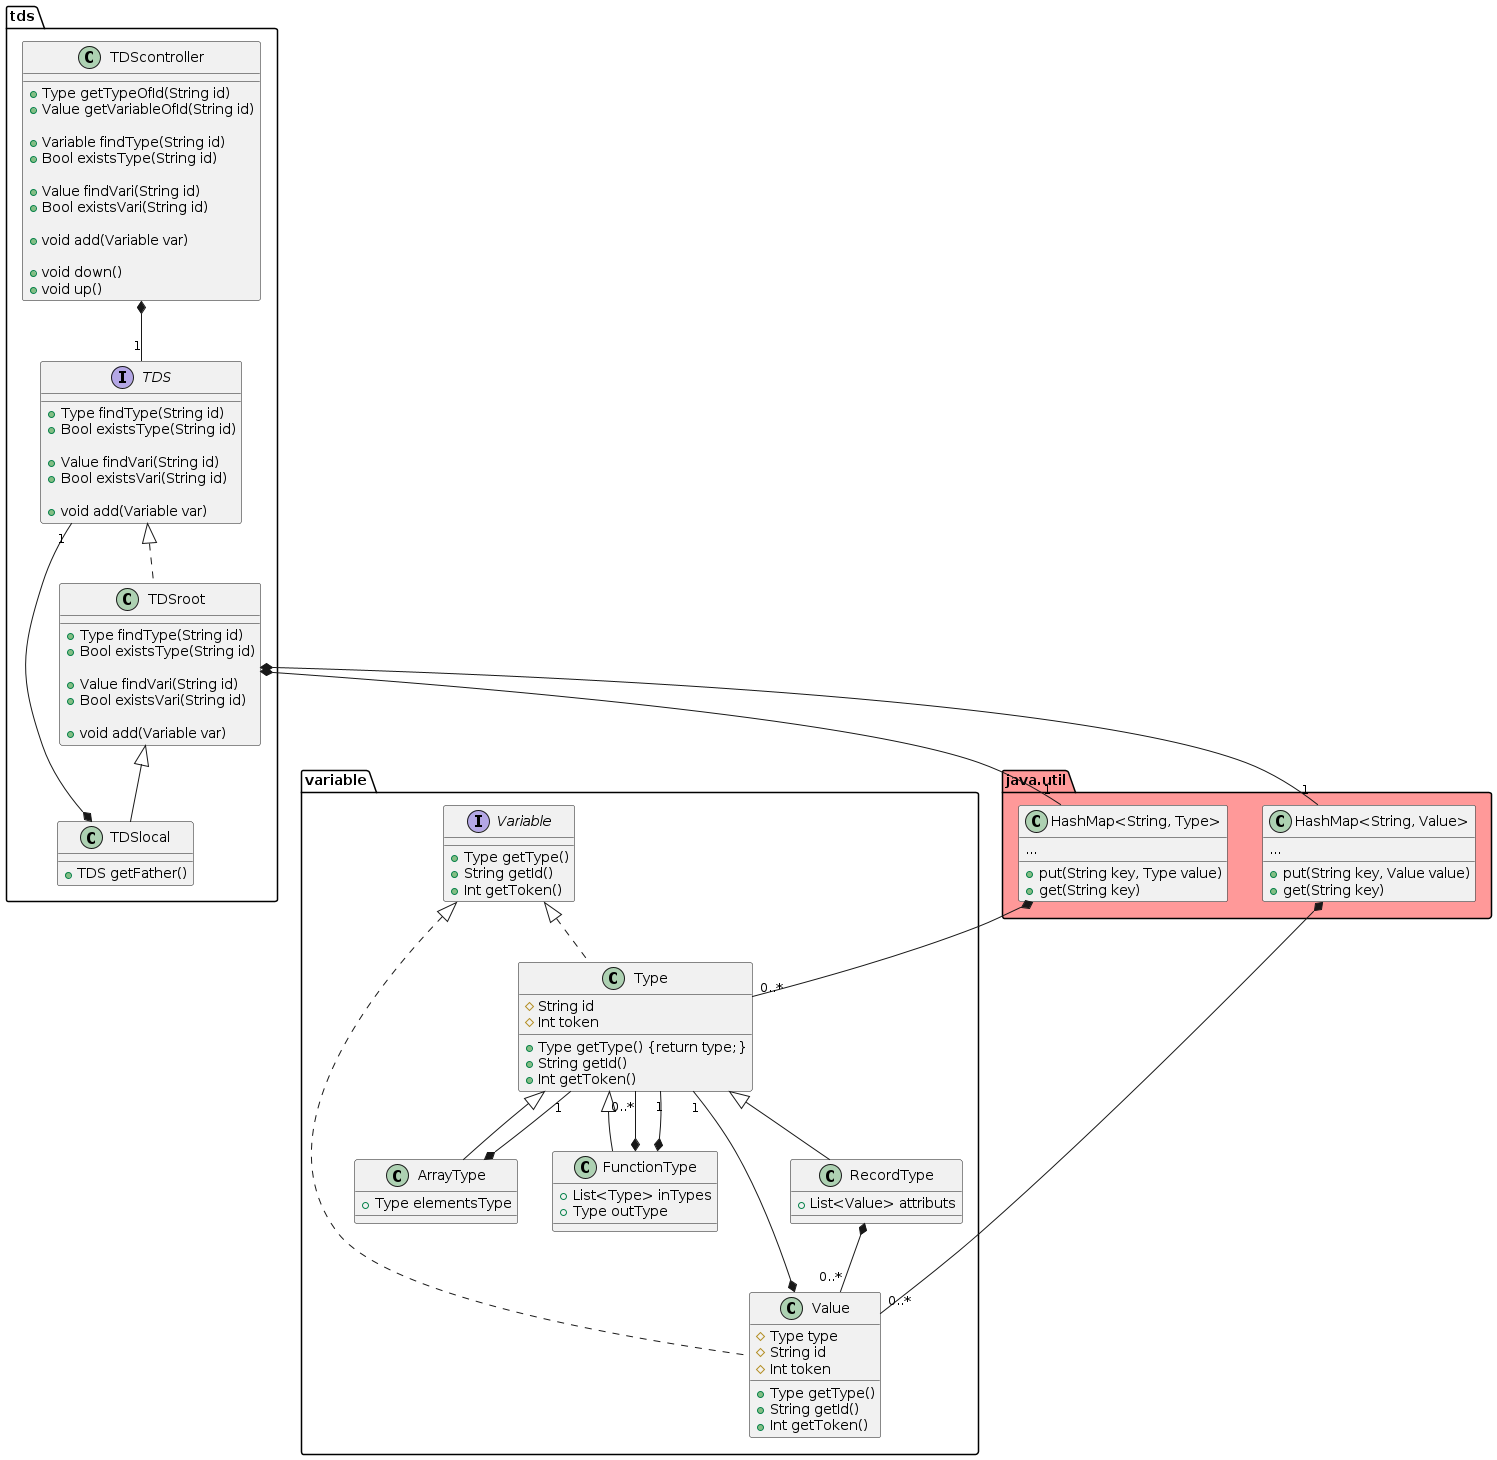
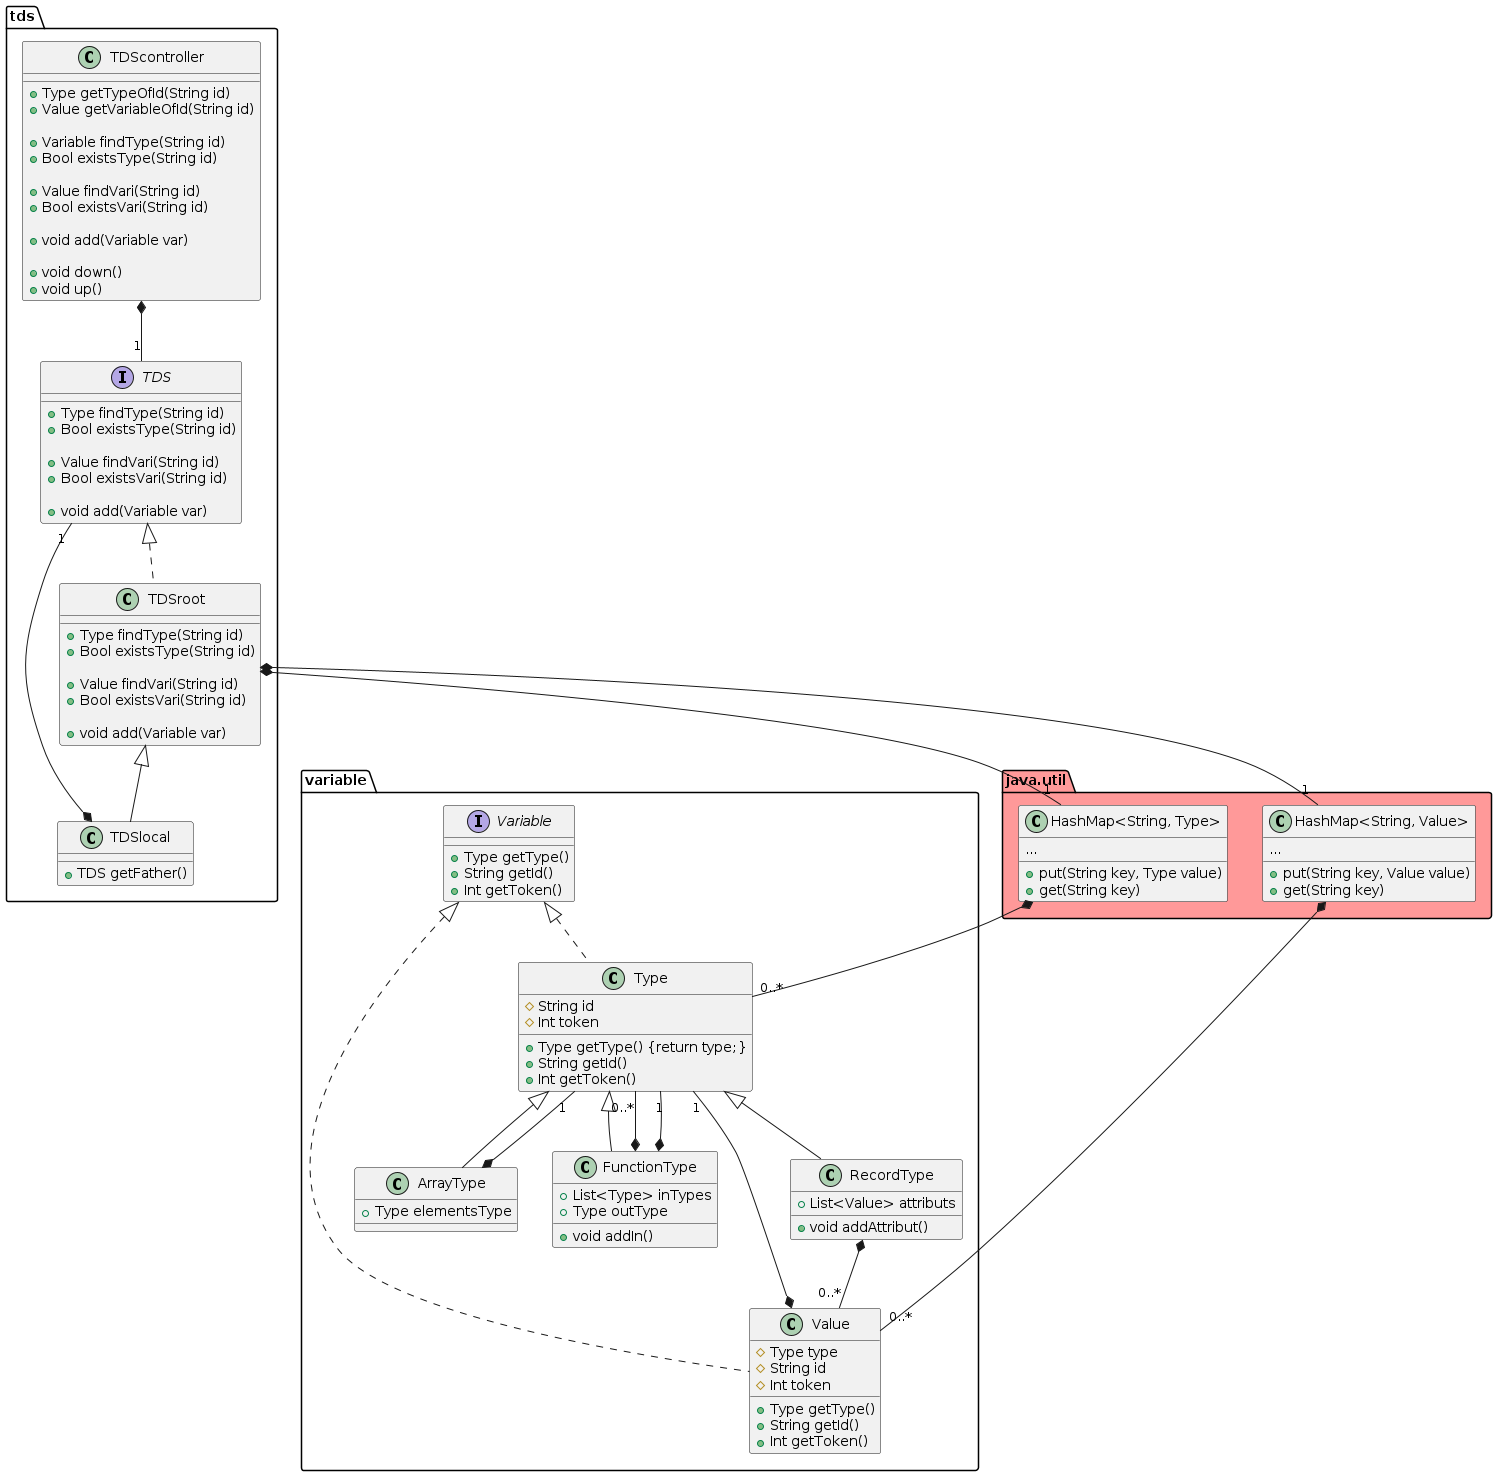
[EDIT] Ajout de méthodes pour gérer les listes dans la TDS.

diff --git a/AntlrMavenProject/chaoscompiler/src/main/java/eu/tn/chaoscompiler/tdstool/test.java b/AntlrMavenProject/chaoscompiler/src/main/java/eu/tn/chaoscompiler/tdstool/test.java
@@ -30,10 +30,10 @@ public class test {
         my_tds.add(new Type("int"));
         my_tds.add(new Type("string"));
         ArrayList<Type> inType = new ArrayList<Type>();
-        inType.add((Type) my_tds.getVariableOfId("string"));
+        inType.add(my_tds.getTypeOfId("string"));
         my_tds.add(new Value(new FunctionType("__PRINT__",
                 inType,
-                (Type) my_tds.getVariableOfId("void")), "print"));
+                my_tds.getTypeOfId("void")), "print"));
         System.out.println(my_tds.toString());
         System.out.println(ANSI_BLUE + "--> [TEST] Done." + ANSI_RESET);
 
@@ -42,22 +42,22 @@ public class test {
         System.out.println(ANSI_BLUE + "--> [TEST] Done." + ANSI_RESET);
 
         System.out.println(ANSI_BLUE + "[TEST] Adding a local var ('my_var') to my_tds." + ANSI_RESET);
-        my_tds.add(new Value((Type) my_tds.getVariableOfId("int"), "my_var"));
+        my_tds.add(new Value(my_tds.getTypeOfId("int"), "my_var"));
         System.out.println(my_tds.toString());
         System.out.println(ANSI_BLUE + "--> [TEST] Done." + ANSI_RESET);
 
         System.out.println(ANSI_BLUE + "[TEST] Checking if 'my_var' exists." + ANSI_RESET);
         System.out.println("Expecting: true.");
-        System.out.println("Got  --> " + my_tds.exists("my_var") + ".");
+        System.out.println("Got  --> " + my_tds.existsVari("my_var") + ".");
         System.out.println(ANSI_BLUE + "--> [TEST] Done." + ANSI_RESET);
 
         System.out.println(ANSI_BLUE + "[TEST] Printing what 'my_var' is." + ANSI_RESET);
-        System.out.println(my_tds.find("my_var").toString());
+        System.out.println(my_tds.findVari("my_var").toString());
         System.out.println(ANSI_BLUE + "--> [TEST] Done." + ANSI_RESET);
 
         System.out.println(ANSI_BLUE + "[TEST] Checking if 'print' exists." + ANSI_RESET);
         System.out.println("Expecting: true.");
-        System.out.println("Got  --> " + my_tds.exists("print") + ".");
+        System.out.println("Got  --> " + my_tds.existsVari("print") + ".");
         System.out.println(ANSI_BLUE + "--> [TEST] Done." + ANSI_RESET);
 
         System.out.println(ANSI_BLUE + "[TEST] Reading a 'end', exiting the local scope.." + ANSI_RESET);
@@ -66,7 +66,7 @@ public class test {
 
         System.out.println(ANSI_BLUE + "[TEST] Checking if 'my_var' exists." + ANSI_RESET);
         System.out.println("Expecting: false.");
-        System.out.println("Got  --> " + my_tds.exists("my_var") + ".");
+        System.out.println("Got  --> " + my_tds.existsVari("my_var") + ".");
         System.out.println(ANSI_BLUE + "--> [TEST] Done." + ANSI_RESET);
     }
 }

diff --git a/AntlrMavenProject/chaoscompiler/src/main/java/eu/tn/chaoscompiler/tdstool/variable/FunctionType.java b/AntlrMavenProject/chaoscompiler/src/main/java/eu/tn/chaoscompiler/tdstool/variable/FunctionType.java
@@ -12,6 +12,16 @@ public class FunctionType extends Type {
         this.outType = outType;
     }
 
+    public FunctionType(String id, Type outType) {
+        super(id);
+        this.inTypes = new ArrayList<Type>();
+        this.outType = outType;
+    }
+
+    public void addIn(Type in) {
+        this.inTypes.add(in);
+    }
+
     @Override
     public String toString() {
         return "\n\u001B[35m{[FunctionType]\u001B[0m" + super.toString() + ", inTypes: " + this.inTypes.toString()

diff --git a/AntlrMavenProject/chaoscompiler/src/main/java/eu/tn/chaoscompiler/tdstool/variable/RecordType.java b/AntlrMavenProject/chaoscompiler/src/main/java/eu/tn/chaoscompiler/tdstool/variable/RecordType.java
@@ -10,6 +10,15 @@ public class RecordType extends Type {
         this.attributs = attributs;
     }
 
+    public RecordType(String id) {
+        super(id);
+        this.attributs = new ArrayList<Value>();
+    }
+
+    public void addAttribut(Value val) {
+        this.attributs.add(val);
+    }
+
     @Override
     public String toString() {
         return "\n\u001B[35m{[ReccordType]\u001B[0m" + super.toString() + ", attributs: " + this.attributs.toString()
